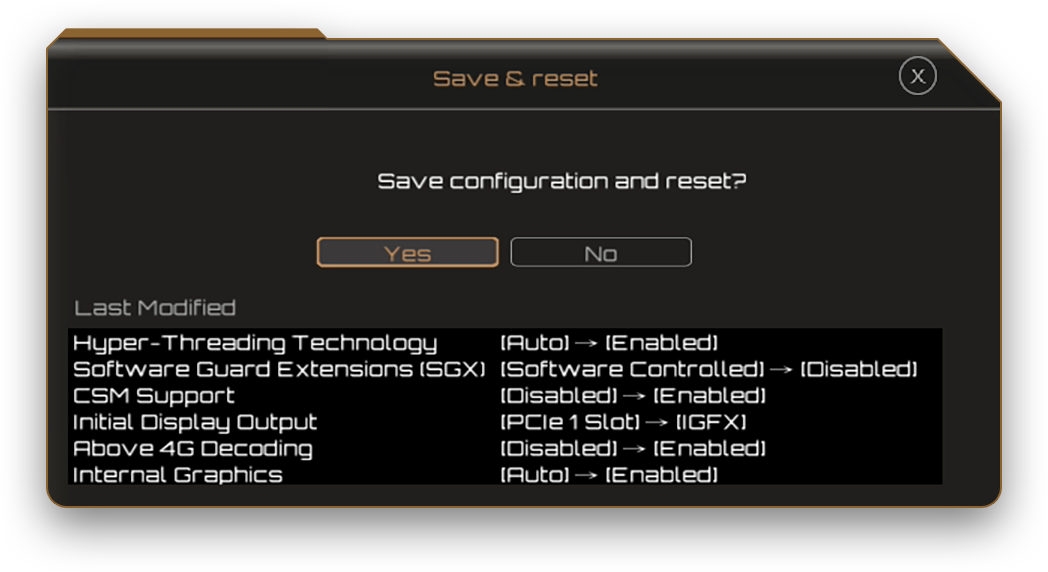
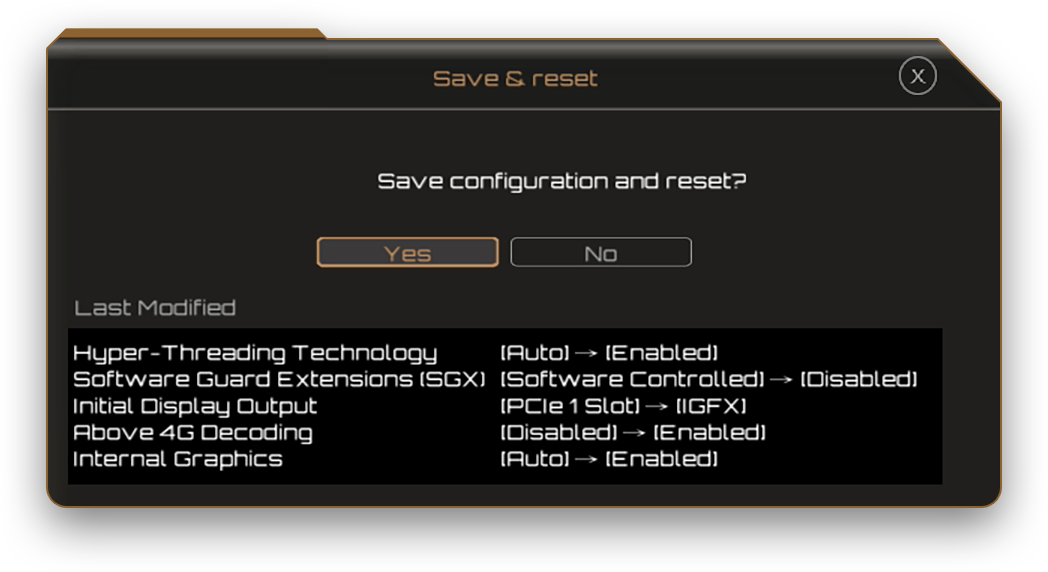
Update README (set CSM Support to Disabled)

Changed region(s): [[0.0611, 0.5647, 0.8855, 0.8619]]

diff --git a/README.md b/README.md
@@ -160,10 +160,10 @@ Working natively. Change default startup disk from the macOS settings.
   - Fast Boot
   - Intel SGX
   - CFG Lock
+  - CSM Support
 - **Enable**
   - Hyper-Threading
   - VT-d
-  - CSM Support
   - Above 4G Decoding
   - DVMT Pre-Allocated: 64M *(Default)*
   - DVMT Total Gfx Mem: MAX
@@ -176,7 +176,9 @@ And disable ```CFG Lock``` (I'll add update the screenshot soon). Don't forget t
 
 **I don't recommand F20b BIOS update because it breaks sleep mode and I also found it slower than F8 at startup. I am not sure why, so unless you have a 11th gen Intel processor, you can just stay at F8c (at least before Gigabyte make another update after F20b). F8c enables Resizable Base-Adress (BAR) so you good to go with it at least.**
 
-*If you really need this BIOS update:* Since **Gigabyte F20b BIOS Update**, you need to enable ```CSM Support``` in order to set ```Initial Display Output``` to ```IGFX```. In order to fix sleep mode showing green screen at wake, I found that adding ```-wegnoegpu``` to boot arguments did the trick, but I'm not 100% sure about it so I'll appreciate feedback. It might not be necessary if you have a dGPU.
+Since **Gigabyte F20b BIOS Update**, in order to set ```Initial Display Output``` to ```IGFX``` you need to enable ```CSM Support```. Just enable ```CSM Support```, set ```Initial Display Output``` to ```IGFX```, then disable ```CSM Support``` (thanks [azhinu](https://github.com/azhinu) for the little trick).
+
+In order to fix sleep mode showing green screen at wake, I found that adding ```-wegnoegpu``` to boot arguments did the trick, but I'm not 100% sure about it so I'll appreciate feedback. It might not be necessary if you have a dGPU.
 
 ## Acknowledgments
 
